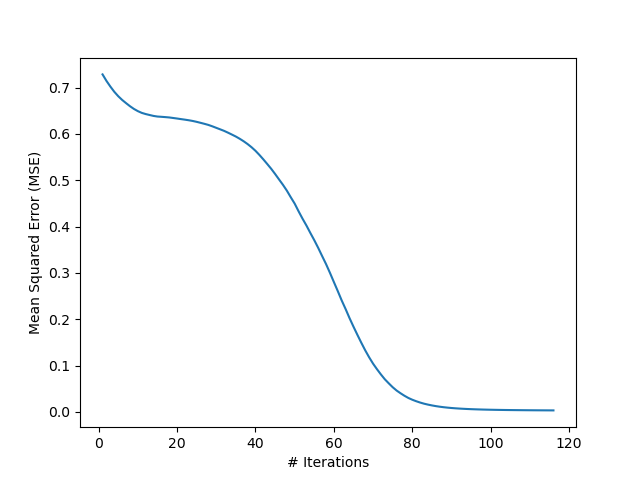
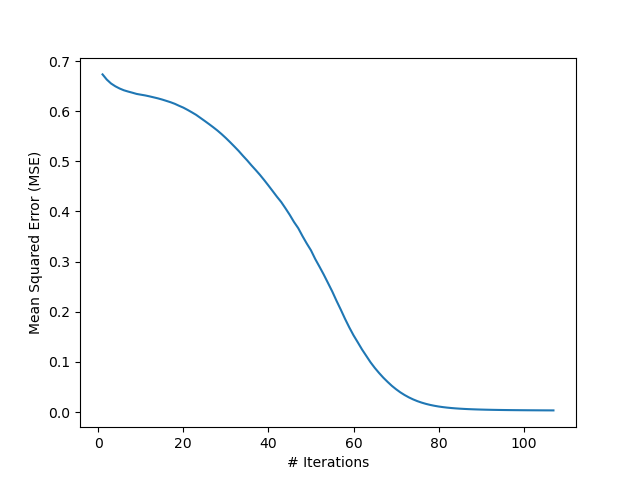
Validation phase completed

diff --git a/development_system/trainer.py b/development_system/trainer.py
@@ -2,11 +2,11 @@ import math
 
 from numpy import ravel
 import pandas as pd
+from sklearn.metrics import log_loss
 
 from development_system.classifier import Classifier
 from development_system.configuration_parameters import ConfigurationParameters
 from development_system.jsonIO import JsonHandler
-
 
 class Trainer:
     """Class responsible for training a classifier."""
@@ -16,12 +16,14 @@ class Trainer:
         self.classifier = Classifier()
         self.json_handler = JsonHandler()
 
-
-    def set_number_iterations(self):
+    def read_number_iterations(self):
         """Set the number of iterations."""
-        data=self.json_handler.read_json_file("iterations.json")
+        data=self.json_handler.read_json_file("intermediate_results/iterations.json")
         iterations =  data["iterations"]
         return iterations
+
+    #def set_num_iterations(self, num_iterations: int):
+        #self.classifier.set_num_iterations(num_iterations)
 
     def set_average_hyperparameters(self):
         """Set the average hyperparameters."""
@@ -32,11 +34,12 @@ class Trainer:
         #save the values in the file so that can be used after the stop
         self.json_handler.save_average_hyperparams(avg_neurons, avg_layers, "intermediate_results/average_hyperparams.json")
 
-
     def set_hyperparameters(self, num_layers: int, num_neurons: int):
         """Set the hyperparameters."""
+        self.classifier.set_num_layers(num_layers)
+        self.classifier.set_num_neurons(num_neurons)
 
-    def train(self, iterations):
+    def train(self, iterations, validation: bool = False):
         """Train the classifier."""
         data = self.json_handler.read_json_file("intermediate_results/dataset_split.json")
 
@@ -61,4 +64,35 @@ class Trainer:
         # Train the classifier
         self.classifier.fit(x=training_features, y=ravel(training_labels))
 
+        if validation:
+            self.validate()                     #validation phase
+
         return self.classifier
+
+    def validate(self):
+        data = self.json_handler.read_json_file("intermediate_results/dataset_split.json")
+
+        # Estrazione del validation set
+        validation_set = data["validation_set"]
+
+        # Creazione del DataFrame da validation_set
+        validation_data = pd.DataFrame([
+            {"features": record["features"], "label": record["label"]}
+            for record in validation_set
+        ])
+
+        # Separazione delle caratteristiche (X) e delle etichette (y)
+        validation_features = pd.DataFrame(validation_data["features"].to_list())
+        validation_labels = validation_data["label"]
+
+        true_labels = []
+        for label in validation_labels:
+            if label == 1.0:
+                true_labels.append([1.0, 0])
+            else:
+                true_labels.append([0, 1.0])
+
+        validation_error = log_loss(y_true=true_labels,
+                                    y_pred=self.classifier.predict_proba(validation_features))
+
+        self.classifier.set_validation_error(validation_error)

diff --git a/development_system/classifier.py b/development_system/classifier.py
@@ -7,25 +7,32 @@ class Classifier(MLPClassifier):
     def __init__(self):
         super(Classifier, self).__init__()
         """Initialize classifier attributes."""
-        self.num_iterations = None
+        #self.num_iterations = None
         self.num_layers = None
         self.num_neurons = None
-        self.training_error = None
+        #self.training_error = None
         self.validation_error = None
         self.test_error = None
 
-    def get_error_difference(self):
-        """Calculate the error difference between validation and training."""
-        return abs(self.validation_error - self.training_error)
+    def get_train_valid_error_difference(self):
+        if self.get_validation_error() == 0:
+            return 1
+        return (self.get_validation_error() - self.get_training_error()) / self.get_validation_error()
+
+    def get_valid_test_error_difference(self):
+        if self.get_test_error() == 0:
+            return 1
+        return (self.get_test_error() - self.get_validation_error()) / self.get_test_error()
 
     # Setters and Getters
-    def set_num_iterations(self, value):
+
+    def set_num_iterations(self, num_iterations: int):
         """Set the number of iterations."""
-        self.num_iterations = value
+        self.max_iter = num_iterations      # #iterations of MLPClassifier
 
     def get_num_iterations(self):
         """Get the number of iterations."""
-        return self.num_iterations
+        return self.max_iter                # #iterations of MLPClassifier
 
     def set_num_layers(self, value):
         """Set the number of layers."""
@@ -43,13 +50,17 @@ class Classifier(MLPClassifier):
         """Get the number of neurons."""
         return self.num_neurons
 
-    def set_training_error(self, value):
-        """Set the training error."""
-        self.training_error = value
+    #def set_training_error(self):
+        #"""Set the training error."""
+        #self.training_error = self.loss_
+
+    #def get_training_error(self):
+        #"""Get the training error."""
+        #return self.training_error
 
     def get_training_error(self):
         """Get the training error."""
-        return self.training_error
+        return self.loss_
 
     def set_validation_error(self, value):
         """Set the validation error."""
@@ -66,6 +77,15 @@ class Classifier(MLPClassifier):
     def get_test_error(self):
         """Get the test error."""
         return self.test_error
+
+    def classifier_report(self):
+        return {'validation_error': self.get_validation_error(),
+                'training_error': self.get_training_error(),
+                'difference': self.get_train_valid_error_difference(),
+                'num_layers': self.get_num_layers(),
+                'num_neurons': self.get_num_neurons(),
+                'network_complexity': self.get_num_layers() * self.get_num_neurons()
+                }
 
     def fit(self, x, y):
         self.hidden_layer_sizes = np.full((self.num_layers,), self.num_neurons, dtype=int)

diff --git a/development_system/validation_orchestrator.py b/development_system/validation_orchestrator.py
@@ -1,9 +1,60 @@
+import copy
+import itertools
+
+from development_system.classifier import Classifier
+from development_system.configuration_parameters import ConfigurationParameters
+from development_system.trainer import Trainer
+from development_system.validation_report_model import ValidationReportModel
+from development_system.validation_report_view import ValidationReportView
+
+
 class ValidationOrchestrator:
     """Orchestrator of the validation"""
 
     def __init__(self):
         """ """
+        self.classifiers = []
+        self.validation_report = None
+        self.validation_report_model = ValidationReportModel()
+        self.validation_report_view = ValidationReportView()
+        self.config_params = ConfigurationParameters()
 
-    def validation(self):
+    def validation(self):    # It performs the grid search and generates the validation report
         """ """
-        pass  # Logic for development.
+        # Grid Search
+        classifier_trainer = Trainer()
+        iterations = classifier_trainer.read_number_iterations()
+        #classifier_trainer.set_num_iterations(num_iterations)
+
+        #load the configurations
+        self.config_params.load_configuration()
+
+        # Compute all possible combinations of hyperparameters
+        layers = []
+
+        for i in range(ConfigurationParameters.min_layers, ConfigurationParameters.max_layers + 1,
+                       ConfigurationParameters.step_layers):
+            layers.append(i)
+
+        neurons = []
+
+        for i in range(ConfigurationParameters.min_neurons, ConfigurationParameters.max_neurons + 1,
+                       ConfigurationParameters.step_neurons):
+            neurons.append(i)
+
+        grid_search = list(itertools.product(layers, neurons))
+
+        for (num_layers, num_neurons) in grid_search:
+            # SET HYPERPARAMETERS
+            classifier_trainer.set_hyperparameters(num_layers, num_neurons)
+            # TRAIN
+            classifier = classifier_trainer.train(iterations, validation=True)
+            #append the clasifier into the classifiers list
+            self.classifiers.append(copy.deepcopy(classifier))
+
+        # GENERATE VALIDATION REPORT
+        self.validation_report =  self.validation_report_model.generate_validation_report(self.classifiers)
+
+        print("validation report =", self.validation_report)
+        # CHECK VALIDATION RESULT
+        self.validation_report_view.show_validation_report(self.validation_report)

diff --git a/development_system/development_system_orchestrator.py b/development_system/development_system_orchestrator.py
@@ -6,6 +6,7 @@ from development_system.development_system_message_broker import DevelopmentSyst
 from development_system.learning_plot_model import LearningPlotModel
 from development_system.learning_plot_view import LearningPlotView
 from development_system.training_orchestrator import TrainingOrchestrator
+from development_system.validation_orchestrator import ValidationOrchestrator
 
 
 class DevelopmentSystemOrchestrator:
@@ -14,10 +15,13 @@ class DevelopmentSystemOrchestrator:
     def __init__(self):
         """Initialize the orchestrator."""
         self.testing = None
+        self.json_handler = JsonHandler()
         self.config_params = ConfigurationParameters() #instance of ConfigurationParameters class
         #self.dev_mess_broker = DevelopmentSystemMessageBroker()  # instance of DevelopmentSystemMessageBroker class
         self.training_orchestrator = TrainingOrchestrator()
+        self.validation_orchestrator = ValidationOrchestrator()
         self.classifier = Classifier()
+
         #self.plot_model = LearningPlotModel()
         #self.plot_view = LearningPlotView()
 
@@ -76,15 +80,16 @@ class DevelopmentSystemOrchestrator:
                 # GENERATE LEARNING REPORT
                 # CHECK LEARNING PLOT
             set_average_hyperparams = False  # in this case, the average hyperparams are already setted
-            classifier = self.training_orchestrator.train_classifier(set_average_hyperparams)
-           # json_handler.append_classifier_to_json(classifier, "intermediate_results/classifiers.json")
+            self.training_orchestrator.train_classifier(set_average_hyperparams)
 
         elif user_responses["Validation"] == 1:
             print("Validation")
             # SET HYPERPARAMETERS (loop)
             # TRAIN               (loop)
-            # GENERATE VALIDATION REPORT
-            # CHECK VALIDATION RESULT
+                # GENERATE VALIDATION REPORT
+                # CHECK VALIDATION RESULT
+            self.validation_orchestrator.validation()
+
         elif user_responses["GenerateTest"] == 1:
             print("GenerateTest")
             # GENERATE TEST REPORT

diff --git a/development_system/validation_report_model.py b/development_system/validation_report_model.py
@@ -1,9 +1,42 @@
+from typing import List
+
+import joblib
+
+from development_system.classifier import Classifier
+from development_system.configuration_parameters import ConfigurationParameters
+
+
 class ValidationReportModel:
     """Generates the report for the validation report"""
 
     def __init__(self):
         """ """
+        self.top_5_classifiers = []
 
-    def generate_validation_report(self):
+    def generate_validation_report(self, classifiers: List[Classifier]):
         """Generate the validation report."""
-        pass  # Logic to generate the report.
+        # Assuming at least 5 classifiers
+        for i in range(1, 6):
+
+            min_validation_error = -1
+            top_classifier = None
+
+            for classifier in classifiers:  # It looks for the classifier with the minimum validation error
+                current_validation_error = classifier.get_validation_error()
+                if min_validation_error == -1:
+                    min_validation_error = current_validation_error
+                    top_classifier = classifier
+                elif min_validation_error > current_validation_error:
+                    min_validation_error = current_validation_error
+                    top_classifier = classifier
+
+            #generate classifier report
+            classifier_report = {'index': i}
+            classifier_report.update(top_classifier.classifier_report())
+            self.top_5_classifiers.append(classifier_report)
+            #joblib.dump(top_classifier, "data/classifier" + str(i) + ".sav")
+            classifiers.remove(top_classifier)
+
+        validation_report = {'report': self.top_5_classifiers,
+                             'overfitting_tolerance': ConfigurationParameters.overfitting_tolerance,}
+        return validation_report

diff --git a/development_system/training_orchestrator.py b/development_system/training_orchestrator.py
@@ -19,12 +19,12 @@ class TrainingOrchestrator:
         if set_average_hyperparams:
             self.trainer.set_average_hyperparameters()
         else:
-            iterations = self.trainer.set_number_iterations()
+            iterations = self.trainer.read_number_iterations()
             print("number of iterations= ", iterations)
             classifier = self.trainer.train(iterations)
             # GENERATE LEARNING REPORT
             learning_error = self.plot_model.generate_learning_report(classifier)
             # CHECK LEARNING PLOT
             self.plot_view.show_learning_plot(learning_error)
-            classifier.training_error = classifier.get_loss_curve()
-            return classifier
+            #classifier.training_error = classifier.get_loss_curve() il training_error è calcolato in automatico da MLPClassifier
+            #return classifier non serve nemmeno restituirlo, questo è allenato solo per trovare il numero di iterazioni corretto

diff --git a/development_system/validation_report_view.py b/development_system/validation_report_view.py
@@ -1,9 +1,13 @@
+from development_system.jsonIO import JsonHandler
+
+
 class ValidationReportView:
     """Shows the validation report"""
 
     def __init__(self):
         """ """
+        self.json_handler = JsonHandler()
 
-    def show_validation_report(self):
+    def show_validation_report(self, validation_report):
         """ """
-        pass  # Logic for development.
+        self.json_handler.write_json_file(validation_report, "results/validation_report.json")

diff --git a/development_system/jsonIO.py b/development_system/jsonIO.py
@@ -158,7 +158,6 @@ class JsonHandler:
                 bool: True if the file is written successfully, False otherwise.
         """
 
-
         try:
             with open(filepath, "w") as f:
                 json.dump(data, f, ensure_ascii=False, indent=4)
@@ -166,6 +165,7 @@ class JsonHandler:
         except Exception as e:
             print("Error to save file at path " + filepath + ": " + e)
             return False
+
 
 
 
